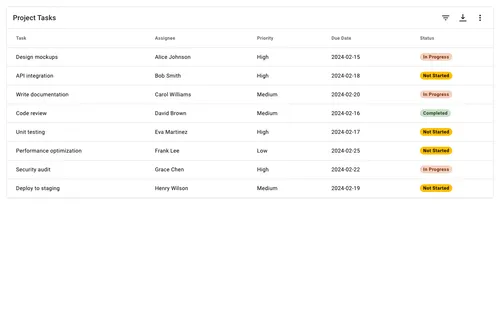
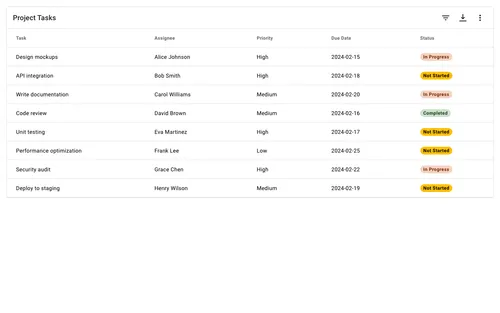
refactor(blocks): make card-header the one card header toolbar
Card headers came in four shapes: titles at heading3, heading4, or
heading5, and actions either grouped in an end-slot div or slotted one by
one. card-header is now the single pattern, so every card header compiles
to the same markup:

- a forge-toolbar in the scaffold header slot
- the title in start as an h2 styled text-heading3
- up to three density="medium" icon buttons grouped in end with
  gap-xsmall, passed as action1..3 and action1Label..3

scaffold-header-toolbar and table-header are folded into it and removed.
The two table cards now use the standard card + scaffold structure, and
simple-table accepts a slot. The Card Header Toolbar demo blocks show the
pattern with and without actions.

diff --git a/blocks/src/blocks/toolbars/table-header/table-header.html b/blocks/src/blocks/toolbars/table-header/table-header.html
@@ -1,7 +1,14 @@
 <!--
-  @block Table Header
+  @block Card Header Toolbar with Actions
   @type pattern
-  @description Toolbar component designed for table headers, featuring a title in the start slot and action icon buttons for filtering, exporting, and additional options in the end slot
-  @tags toolbar, table, header, actions
+  @description Card header toolbar with the card title in the start slot and medium-density icon buttons for filter, export, and more options grouped in the end slot
+  @tags toolbar, header, card, table, actions
 -->
-{{> table-header}}
+<forge-card no-padding class="max-w-md">
+  <forge-scaffold>
+    {{> card-header title="Card title" action1="filter_list" action1Label="Filter" action2="download" action2Label="Export" action3="more_vert" action3Label="More options"}}
+    <div slot="body" class="p-medium">
+      <div class="striped-box min-h-24"></div>
+    </div>
+  </forge-scaffold>
+</forge-card>

diff --git a/blocks/src/blocks/toolbars/simple/simple.html b/blocks/src/blocks/toolbars/simple/simple.html
@@ -1,8 +1,14 @@
 <!--
   @block Card Header Toolbar
   @type pattern
-  @description Toolbar used as a card header, with the card title in the start slot styled at heading3
+  @description Card header toolbar for a forge-scaffold header slot, with the card title in the start slot styled at heading3
   @tags toolbar, header, card, title
 -->
-
-{{> card-header title="Card title"}}
+<forge-card no-padding class="max-w-md">
+  <forge-scaffold>
+    {{> card-header title="Card title"}}
+    <div slot="body" class="p-medium">
+      <div class="striped-box min-h-24"></div>
+    </div>
+  </forge-scaffold>
+</forge-card>

diff --git a/blocks/src/blocks/tables/table-with-icon-actions/table-with-icon-actions.html b/blocks/src/blocks/tables/table-with-icon-actions/table-with-icon-actions.html
@@ -6,7 +6,9 @@
 -->
 <div class="p-medium">
   <forge-card no-padding>
-    {{> table-header title="Project Tasks"}}
-    <forge-table id="tasks-table"></forge-table>
+    <forge-scaffold>
+      {{> card-header title="Project Tasks" action1="filter_list" action1Label="Filter" action2="download" action2Label="Export" action3="more_vert" action3Label="More options"}}
+      <forge-table slot="body" id="tasks-table"></forge-table>
+    </forge-scaffold>
   </forge-card>
 </div>

diff --git a/blocks/src/blocks/scaffold-examples/sidesheet-card/sidesheet-card.html b/blocks/src/blocks/scaffold-examples/sidesheet-card/sidesheet-card.html
@@ -7,7 +7,7 @@
 <div class="min-h-screen flex items-center justify-center p-large">
   <forge-card class="w-full max-w-3xl" no-padding>
     <forge-scaffold>
-      {{> scaffold-header-toolbar}}
+      {{> card-header title="Title" action1="search" action1Label="Search" action2="more_vert" action2Label="More options"}}
 
       <forge-drawer slot="body-left" open>
         <div class="p-medium space-y-medium">

diff --git a/blocks/src/blocks/scaffold-examples/simple-card/simple-card.html b/blocks/src/blocks/scaffold-examples/simple-card/simple-card.html
@@ -7,7 +7,7 @@
 <div class="min-h-screen flex items-center justify-center p-large">
   <forge-card class="w-full max-w-md" no-padding>
     <forge-scaffold>
-      {{> scaffold-header-toolbar}}
+      {{> card-header title="Title" action1="search" action1Label="Search" action2="more_vert" action2Label="More options"}}
 
       <div slot="body" class="p-medium">
         <div class="striped-box min-h-50"></div>

diff --git a/blocks/src/blocks/forms/login/login.html b/blocks/src/blocks/forms/login/login.html
@@ -7,7 +7,7 @@
 <body class="gradient-bg p-8 min-h-screen flex items-center justify-center">
   <forge-card class="max-w-md w-full" no-padding>
     <forge-scaffold>
-      {{> card-header slot="header" title="Sign In"}}
+      {{> card-header title="Sign In"}}
 
       <div slot="body" class="p-medium">
         <form id="login-form" class="flex flex-col gap-medium">

diff --git a/blocks/src/blocks/tables/simple/simple.html b/blocks/src/blocks/tables/simple/simple.html
@@ -7,7 +7,9 @@
 
 <div class="p-medium">
   <forge-card no-padding>
-    {{> card-header title="Blacksmith Inventory"}}
-    {{> simple-table id="blacksmith-table"}}
+    <forge-scaffold>
+      {{> card-header title="Blacksmith Inventory"}}
+      {{> simple-table id="blacksmith-table" slot="body"}}
+    </forge-scaffold>
   </forge-card>
 </div>

diff --git a/blocks/src/blocks/forms/add-illustration/add-illustration.html b/blocks/src/blocks/forms/add-illustration/add-illustration.html
@@ -96,7 +96,7 @@
 
   <forge-card class="relative z-10 w-full max-w-140" no-padding>
     <forge-scaffold>
-      {{> card-header slot="header" title="Add Illustration"}}
+      {{> card-header title="Add Illustration"}}
 
       <div slot="body" class="p-medium">
         <form id="add-illustration-form" class="flex flex-col gap-medium">

diff --git a/blocks/src/blocks/forms/complex-form-with-grouped-sections/complex-form-with-grouped-sections.html b/blocks/src/blocks/forms/complex-form-with-grouped-sections/complex-form-with-grouped-sections.html
@@ -8,7 +8,7 @@
 <body class="overflow-y-auto">
 <forge-card class="max-w-3xl mx-auto my-medium" no-padding>
   <forge-scaffold>
-    {{> card-header slot="header" title="New Project"}}
+    {{> card-header title="New Project"}}
 
     <div slot="body" class="p-medium">
       <form id="complex-form" class="flex flex-col gap-xlarge">

diff --git a/blocks/src/blocks/lists/list-management/list-management.html b/blocks/src/blocks/lists/list-management/list-management.html
@@ -6,7 +6,7 @@
 -->
 <forge-card class="max-w-3xl m-medium" no-padding>
   <forge-scaffold>
-    {{> card-header slot="header" title="List Management"}}
+    {{> card-header title="List Management"}}
 
     <div slot="body" class="p-medium flex flex-col gap-medium">
       <!-- Add Item Form -->

diff --git a/blocks/src/blocks/forms/add-user/add-user.html b/blocks/src/blocks/forms/add-user/add-user.html
@@ -7,7 +7,7 @@
 
 <forge-card class="max-w-2xl" no-padding>
   <forge-scaffold>
-    {{> card-header slot="header" title="Add New User"}}
+    {{> card-header title="Add New User"}}
 
     <div slot="body" class="p-medium">
       <form id="add-user-form" class="flex flex-col gap-medium">
